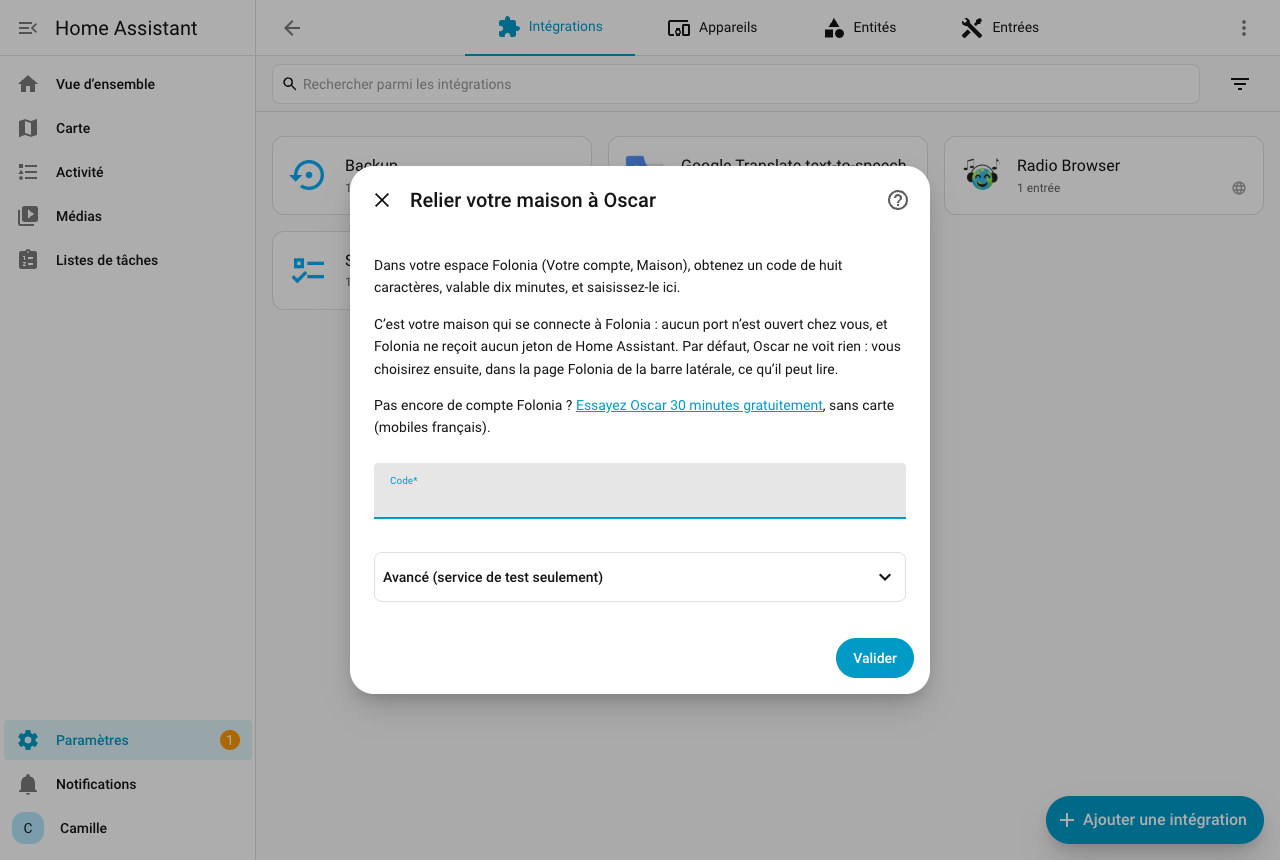
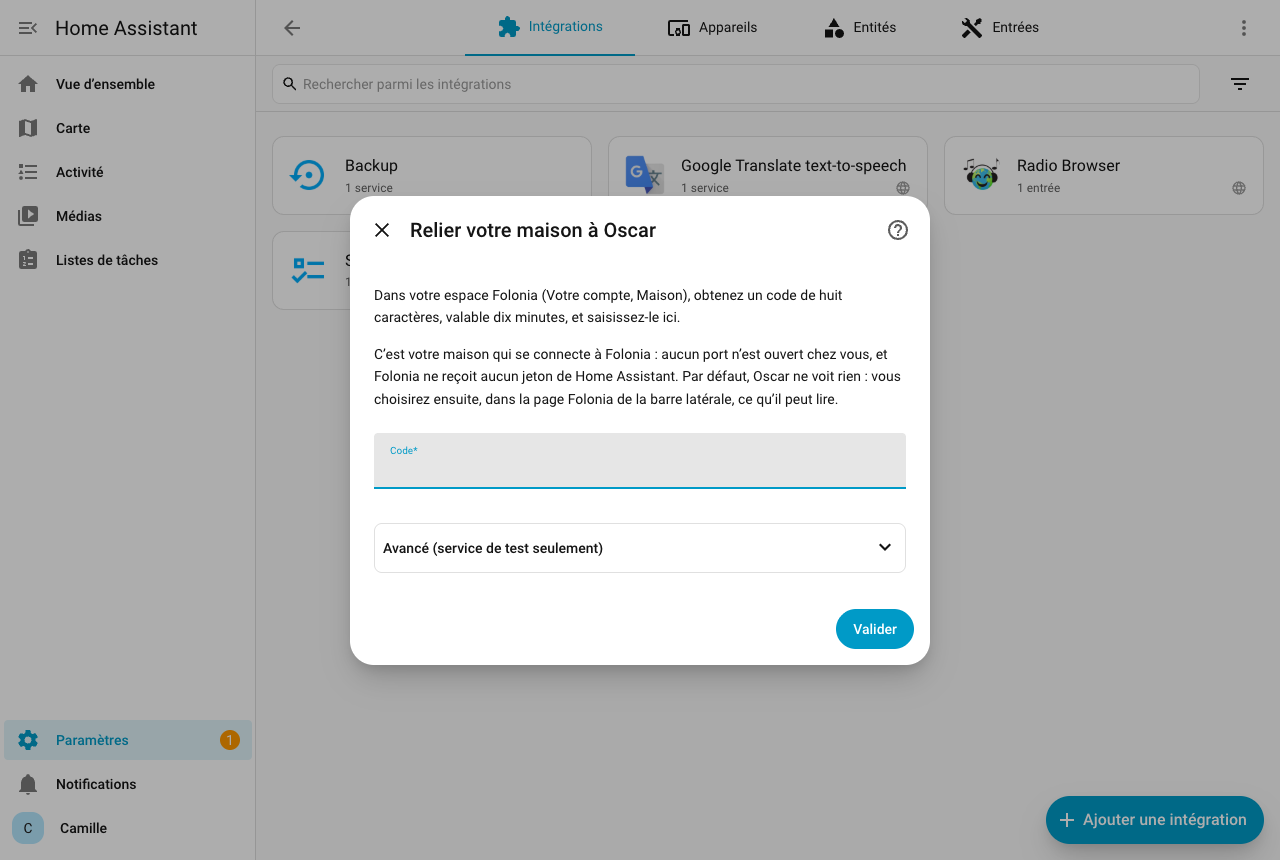
Folonia pour Home Assistant 0.5.3 : le verrou hors de la boucle d'événements
- La vérification du code (50 000 itérations de PBKDF2) et l'enregistrement d'un secret passent
  dans l'exécuteur : sur un Raspberry Pi, ils gelaient Home Assistant à chaque essai.
  `folonia/secret` devient une commande asynchrone.
- Le formulaire d'ajout ne porte plus de lien d'essai : il dit seulement où obtenir le code.

diff --git a/custom_components/folonia/voicelock.py b/custom_components/folonia/voicelock.py
@@ -113,7 +113,15 @@ class VoiceLock:
         self._prune(now if now is not None else time.time())
         return self.blocked or len(self.failures) >= LOCK_FAILURES
 
-    def check(self, code: str | None, now: float | None = None) -> str:
+    def matches(self, code: str) -> bool:
+        """Le code ou le mot de passe correspond-il ? Calcul lent (PBKDF2) : hors de la boucle."""
+        return _matches(normalize_lock_code(code), self._hash, self._salt) or _matches(
+            normalize_passphrase(code), self._phrase_hash, self._phrase_salt
+        )
+
+    def check(
+        self, code: str | None, now: float | None = None, *, matched: bool | None = None
+    ) -> str:
         """`ok`, `code_required`, `code_invalid`, `locked` ; `forbidden` sans secret réglé.
 
         `code` est ce que la personne a donné : un code chiffré, dit ou tapé, ou un mot de
@@ -126,11 +134,8 @@ class VoiceLock:
             return "locked"
         if not code:
             return "code_required"
-        digits = normalize_lock_code(code)
-        phrase = normalize_passphrase(code)
-        if _matches(digits, self._hash, self._salt) or _matches(
-            phrase, self._phrase_hash, self._phrase_salt
-        ):
+        # `matched` : déjà calculé hors de la boucle d'événements par l'appelant.
+        if self.matches(code) if matched is None else matched:
             self.failures.clear()
             return "ok"
         self.failures.append(now)

diff --git a/tests/test_link.py b/tests/test_link.py
@@ -679,3 +679,24 @@ def test_requetes_mal_formees_et_adresses_refusees() -> None:
     assert protocol.base_url("https://compte.folonia.fr@evil.example") is None
     assert protocol.base_url("http://evil.example") is None
     assert protocol.base_url("http://192.168.0.10:8080") == "http://192.168.0.10:8080"
+
+
+async def test_le_code_est_calcule_hors_de_la_boucle(
+    hass: HomeAssistant, linked: tuple[FakeFolonia, MockConfigEntry, list[Event]]
+) -> None:
+    """Revue HACS : 50 000 itérations de PBKDF2 gèleraient Home Assistant sur un Raspberry Pi."""
+    fake, entry, _ = linked
+    hass.config_entries.async_update_entry(
+        entry, options={**entry.options, CONF_CONTROL: ["lock.entree"]}
+    )
+    await hass.async_block_till_done()
+    jobs: list[str] = []
+    real = hass.async_add_executor_job
+
+    def spy(target, *args):
+        jobs.append(getattr(target, "__name__", ""))
+        return real(target, *args)
+
+    hass.async_add_executor_job = spy
+    await fake.request("command", entity_id="lock.entree", service="lock.unlock", code="1111")
+    assert "matches" in jobs

diff --git a/custom_components/folonia/link.py b/custom_components/folonia/link.py
@@ -345,9 +345,14 @@ class FoloniaLink:
     async def _verify(self, code: str | None, entity_id: str) -> str:
         """Le verrou vocal, pour une commande ou une lecture : les essais faux comptent pareil,
         code ou mot de passe, dit ou tapé."""
-        was_blocked = self.lock.blocked
-        had_failures = bool(self.lock.failures)
-        verdict = self.lock.check(code)
+        lock = self.lock
+        was_blocked = lock.blocked
+        had_failures = bool(lock.failures)
+        matched = None
+        if code and lock.configured and not lock.is_locked():
+            # 50 000 itérations de PBKDF2 : dans l'exécuteur, jamais dans la boucle d'événements.
+            matched = await self.hass.async_add_executor_job(lock.matches, code)
+        verdict = lock.check(code, matched=matched)
         if verdict in ("code_invalid", "locked") and code:
             self.journal.record("code du verrou vocal refusé", entity_id, refused=True)
             # Déjà bloqué : ni écriture ni notification de plus à chaque essai.

diff --git a/custom_components/folonia/settings.py b/custom_components/folonia/settings.py
@@ -165,7 +165,7 @@ def apply_choices(
 
 
 @callback
-def apply_secrets(
+async def async_apply_secrets(
     hass: HomeAssistant, options: Mapping[str, Any], changes: Mapping[str, str | None]
 ) -> tuple[dict[str, Any], bool]:
     """Les options avec les secrets réglés (texte) ou effacés (`None`) ; rien n'est gardé en clair.
@@ -190,7 +190,8 @@ def apply_secrets(
         secret = normalize(value)
         if secret is None:
             raise SettingsError(error)
-        new[hash_key], new[salt_key] = hash_code(secret)
+        # PBKDF2 : dans l'exécuteur, jamais dans la boucle d'événements.
+        new[hash_key], new[salt_key] = await hass.async_add_executor_job(hash_code, secret)
         if name == "phrase":
             weak = passphrase_is_weak(secret)
     if cleared and needs_secret(hass, new):

diff --git a/custom_components/folonia/websocket.py b/custom_components/folonia/websocket.py
@@ -179,8 +179,8 @@ def ws_save(
     }
 )
 @websocket_api.require_admin
-@callback
-def ws_secret(
+@websocket_api.async_response
+async def ws_secret(
     hass: HomeAssistant, connection: websocket_api.ActiveConnection, msg: dict[str, Any]
 ) -> None:
     """Règle (texte) ou efface (`null`) le code chiffré, le mot de passe parlé, ou les deux.
@@ -194,7 +194,7 @@ def ws_secret(
         return
     changes = {name: msg[name] for name in settings.SECRETS if name in msg}
     try:
-        options, weak = settings.apply_secrets(hass, entry.options, changes)
+        options, weak = await settings.async_apply_secrets(hass, entry.options, changes)
     except settings.SettingsError as err:
         connection.send_error(msg["id"], err.code, ERRORS[err.code])
         return

diff --git a/tests/test_config_flow.py b/tests/test_config_flow.py
@@ -22,7 +22,6 @@ from custom_components.folonia.const import (
     CONF_VERIFY_SSL,
     DEFAULT_URL,
     DOMAIN,
-    TRIAL_URL,
     VERSION,
 )
 
@@ -45,8 +44,6 @@ async def test_appariement_par_code(hass: HomeAssistant, folonia: tuple[FakeFolo
     fake, url = folonia
     result = await _start(hass)
     assert result["type"] is FlowResultType.FORM
-    # Sans compte, le formulaire n'est pas un cul-de-sac : il mène à l'essai.
-    assert result["description_placeholders"] == {"trial_url": TRIAL_URL}
     # L'adresse du service reste repliée : le formulaire ne montre que le code.
     fields = {str(key): value for key, value in result["data_schema"].schema.items()}
     assert set(fields) == {CONF_CODE, SECTION_ADVANCED}

diff --git a/custom_components/folonia/const.py b/custom_components/folonia/const.py
@@ -3,7 +3,7 @@
 from __future__ import annotations
 
 DOMAIN = "folonia"
-VERSION = "0.5.2"
+VERSION = "0.5.3"
 
 #: La page Folonia de la barre latérale : adresse, titre, icône.
 PANEL_URL = "folonia"
@@ -12,8 +12,6 @@ PANEL_ICON = "mdi:home-account"
 
 #: Le service Folonia ; modifiable dans la section repliée du formulaire (laboratoire).
 DEFAULT_URL = "https://compte.folonia.fr"
-#: L'essai de 30 minutes, pour qui n'a pas encore de compte.
-TRIAL_URL = "https://compte.folonia.fr/essai-long?utm_source=home-assistant"
 
 CONF_CODE = "code"
 CONF_URL = "url"

diff --git a/custom_components/folonia/config_flow.py b/custom_components/folonia/config_flow.py
@@ -28,7 +28,6 @@ from .const import (
     DEFAULT_URL,
     DOMAIN,
     PANEL_URL,
-    TRIAL_URL,
 )
 from .protocol import base_url, normalize_code
 
@@ -105,7 +104,6 @@ class FoloniaConfigFlow(ConfigFlow, domain=DOMAIN):
                 }
             ),
             errors=errors,
-            description_placeholders={"trial_url": TRIAL_URL},
         )
 
     async def async_step_reauth(self, entry_data: Mapping[str, Any]) -> ConfigFlowResult:
